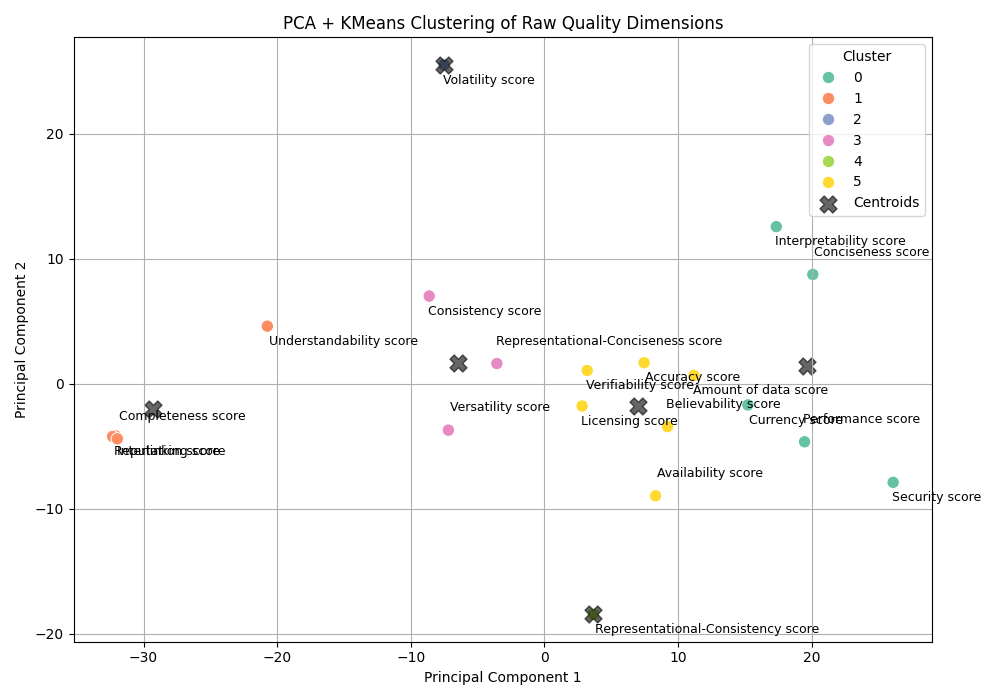
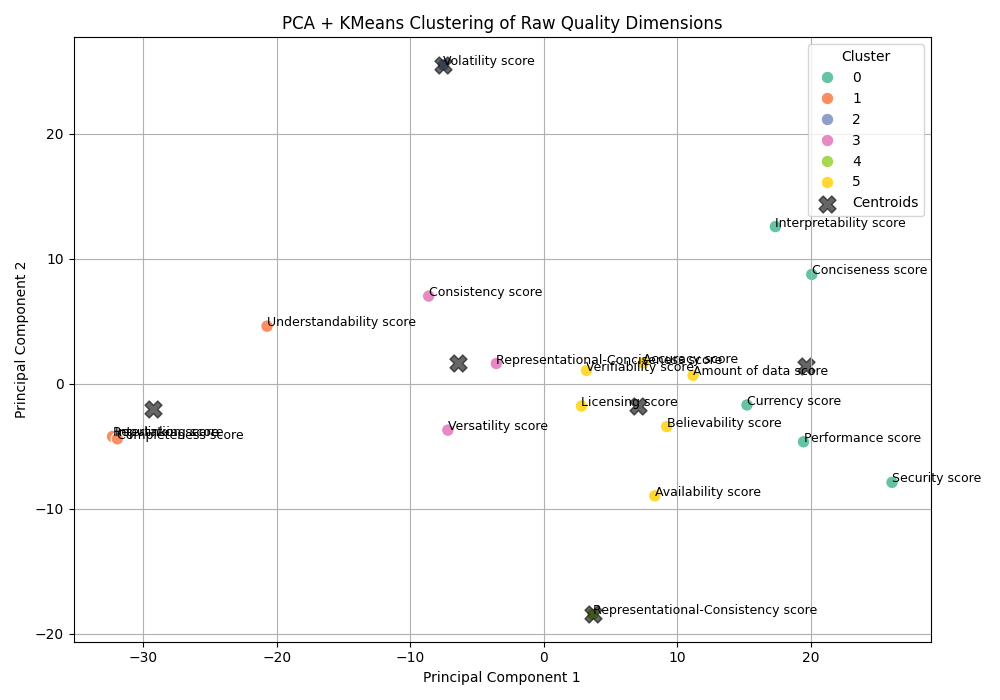
optimized labels position in the plots

diff --git a/src/pca_and_clustering.py b/src/pca_and_clustering.py
@@ -69,9 +69,7 @@ def calculate_clustering_on_raw_quality_dimensions(selected_columns, n_clusters=
     plt.figure(figsize=(10, 7))
     sns.scatterplot(x=X_pca[:, 0], y=X_pca[:, 1], s=80)
     for i, label in enumerate(quality_dimension_labels):
-        offset_x = 0.1 if i % 2 == 0 else -0.1
-        offset_y = 1.5 if i % 3 == 0 else -1.5
-        plt.annotate(label, (X_pca[i, 0] + offset_x, X_pca[i, 1] + offset_y), fontsize=9)
+        plt.annotate(label, (X_pca[i, 0], X_pca[i, 1]), fontsize=9)
     plt.title("PCA of Raw Quality Dimensions")
     plt.xlabel("Principal Component 1")
     plt.ylabel("Principal Component 2")
@@ -92,9 +90,7 @@ def calculate_clustering_on_raw_quality_dimensions(selected_columns, n_clusters=
     plt.figure(figsize=(10, 7))
     sns.scatterplot(x=X_pca[:, 0], y=X_pca[:, 1], hue=labels, palette='Set2', s=80)
     for i, label in enumerate(quality_dimension_labels):
-        offset_x = 0.1 if i % 2 == 0 else -0.1
-        offset_y = 1.5 if i % 3 == 0 else -1.5
-        plt.annotate(label, (X_pca[i, 0] + offset_x, X_pca[i, 1] + offset_y), fontsize=9)
+        plt.annotate(label, (X_pca[i, 0], X_pca[i, 1]), fontsize=9)
     plt.scatter(kmeans.cluster_centers_[:, 0], kmeans.cluster_centers_[:, 1],
                 c='black', s=150, alpha=0.6, marker='X', label='Centroids')
 
